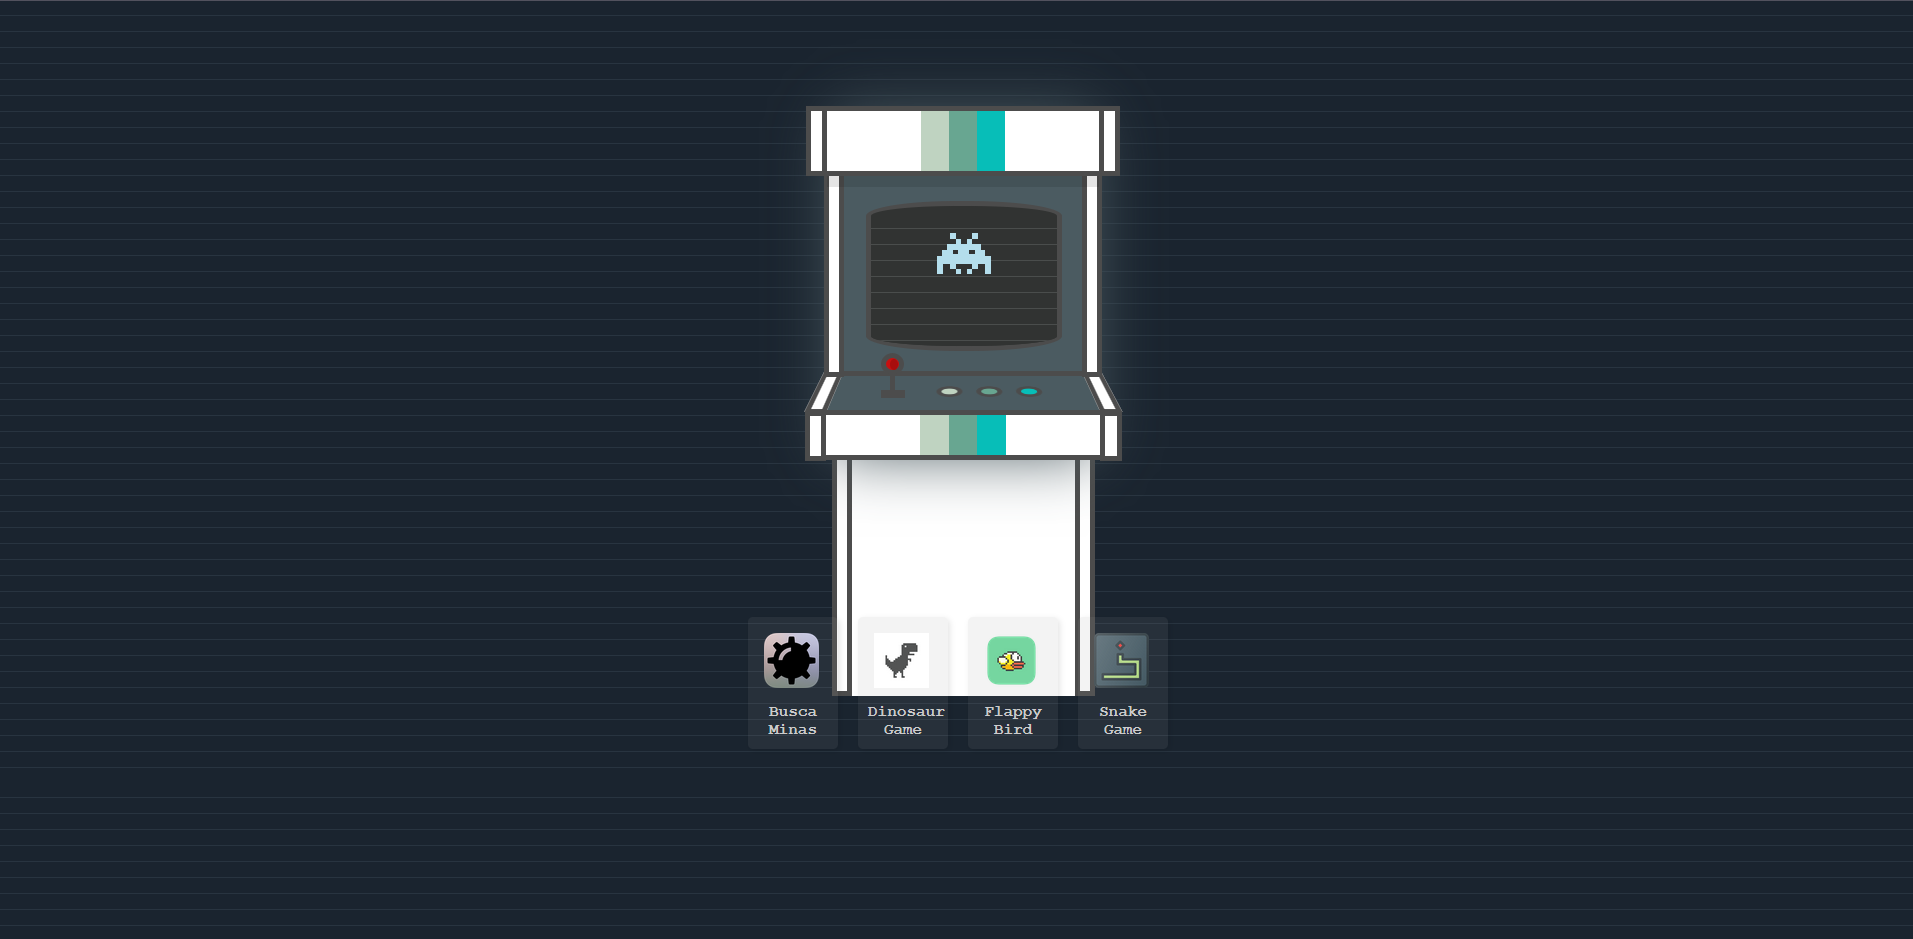
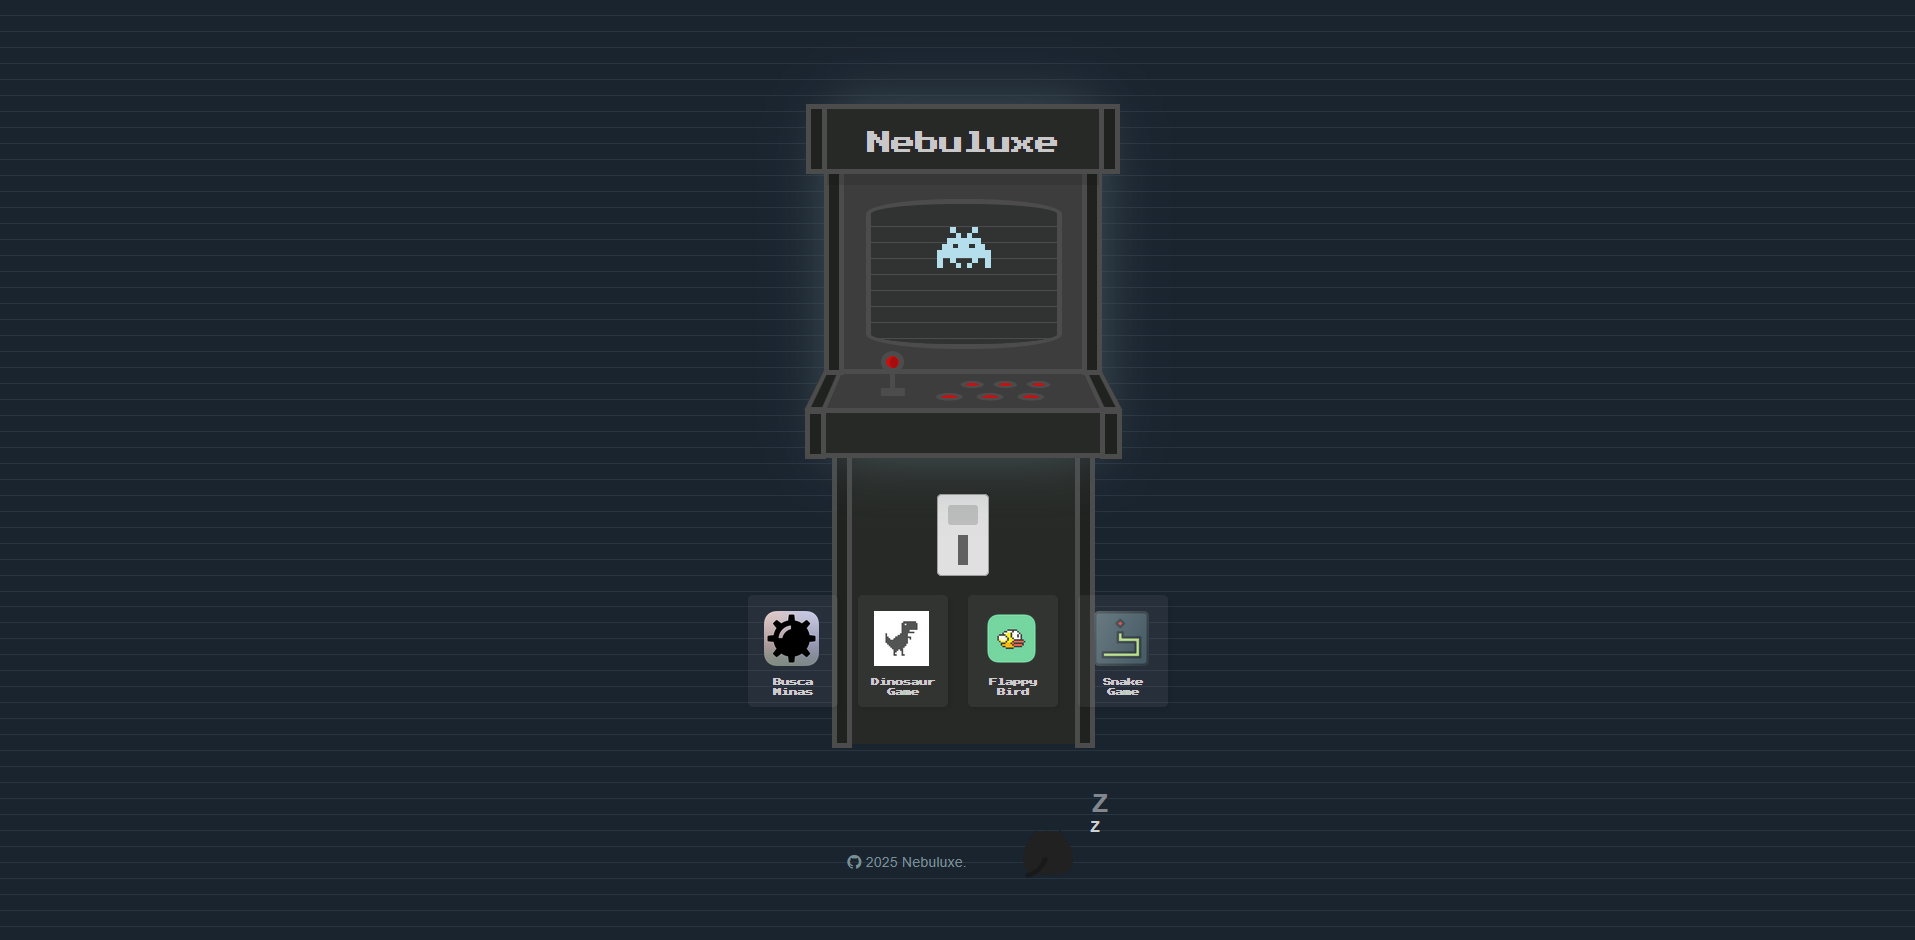
Mejoras en aspecto

Changed region(s): [[0.4009, 0.0927, 0.6168, 0.803], [0.4318, 0.8956, 0.4935, 0.9265]]

diff --git a/index.html b/index.html
@@ -305,7 +305,7 @@
     </section>
     <footer>
       <div class="footer-content container">
-        <p class="copyright">&copy; 2025 Joaquín Díaz. Todos los derechos reservados.</p>
+        <a href="https://github.com/Nebuluxe" target="_blank"><p class="copyright"><i class="bi bi-github"></i> 2025 Nebuluxe.</p></a>
         <div class="wrapper">
           <div class="catContainer">
             <svg

diff --git a/css/style.css b/css/style.css
@@ -937,7 +937,9 @@ button:active {
 
   footer p{
 	float: left;
-	margin-top: 35px;
+	margin-top: 50px;
+	color: #7a9098;
+	margin-bottom: 0;
   }
   .message {
 	background: white;

diff --git a/css/mobile.css b/css/mobile.css
@@ -105,11 +105,6 @@
 .cord{
 	height: 80px;
 }
-
-.light{
-	top: 126px;
-}
-
 .lamp{
 	top: 80px;
 }
